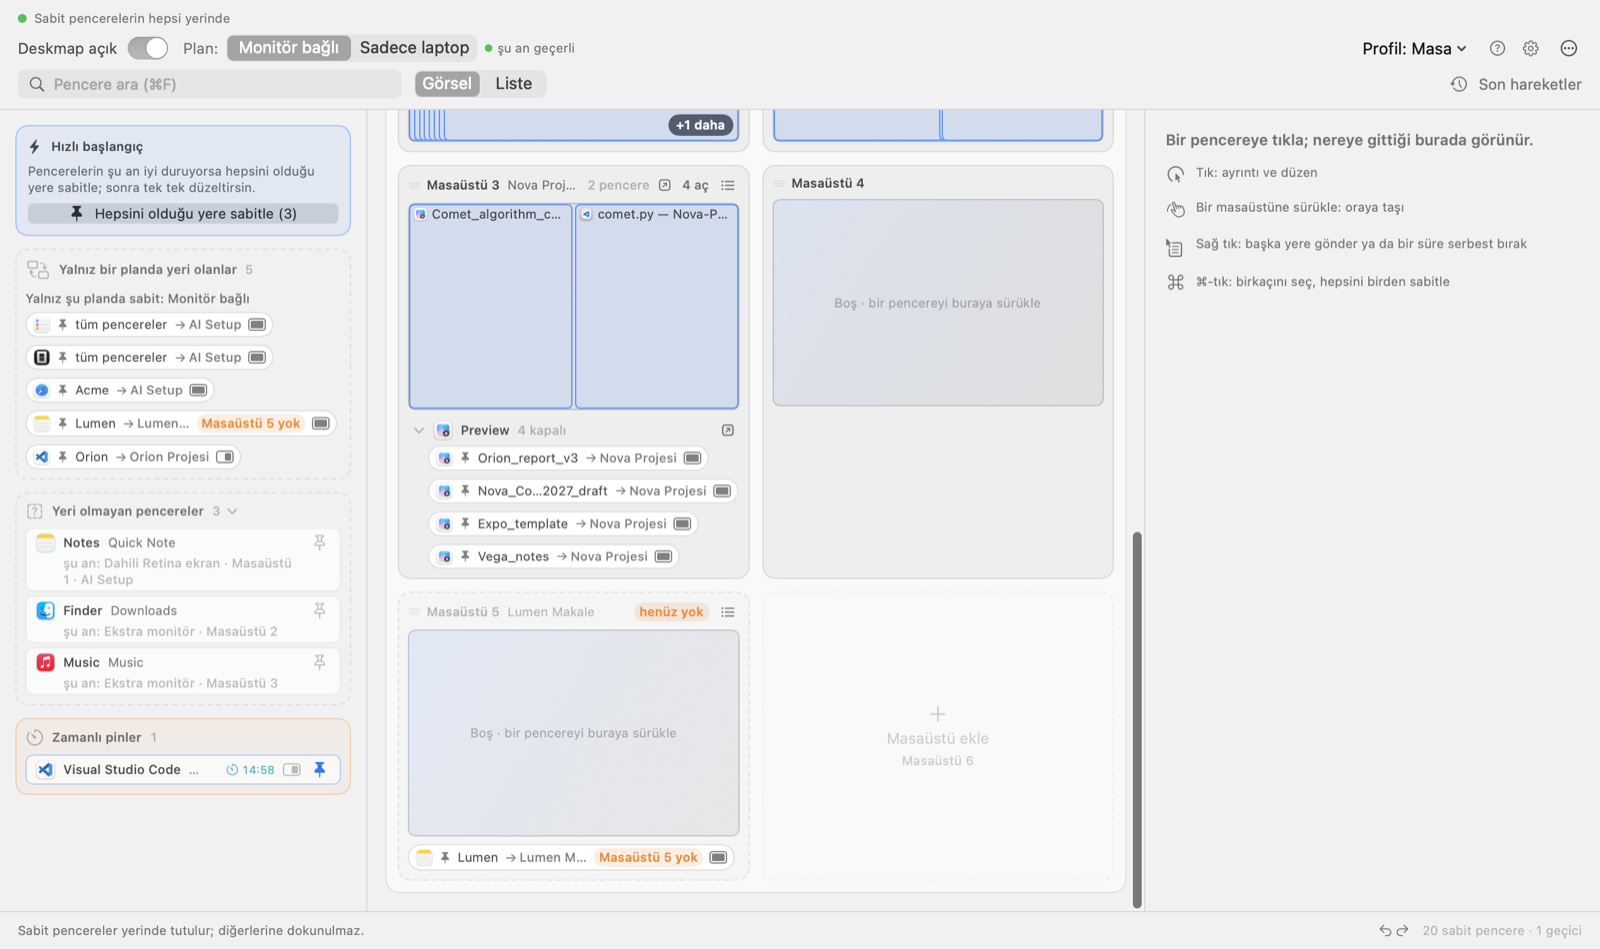
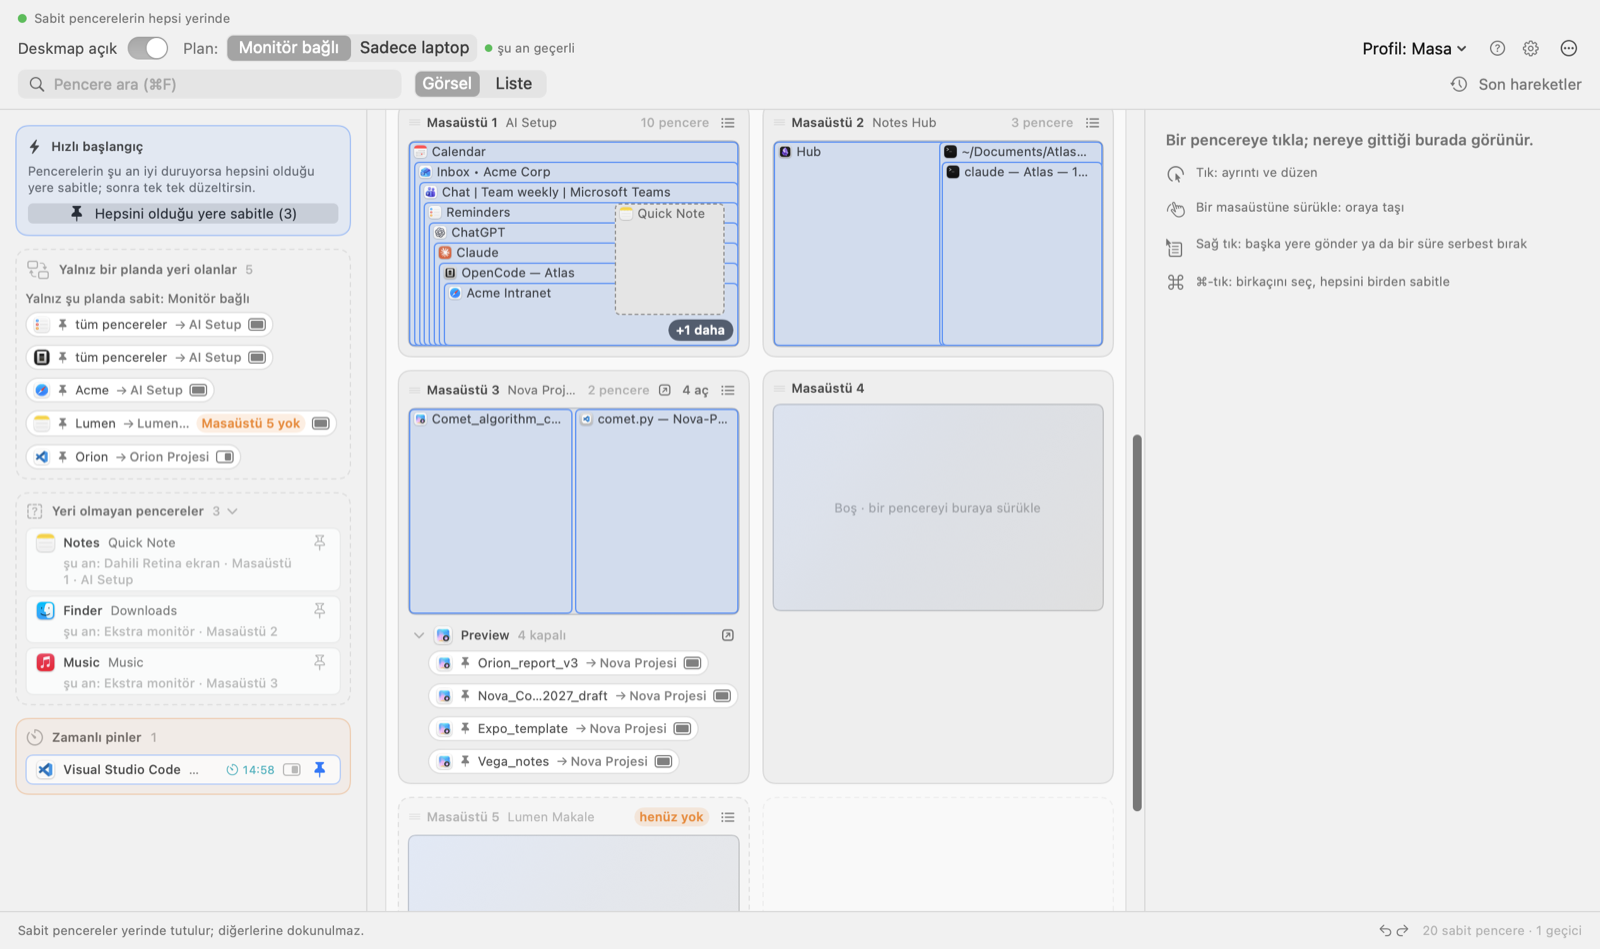
Map: scroll to the revealed window without animation (animated scrollTo is a no-op on macOS 27); drop the shots scroll workaround, bug table C (EN + TR)

diff --git a/app/Tests/DeskmapTests/MapRevealTests.swift b/app/Tests/DeskmapTests/MapRevealTests.swift
@@ -1,0 +1,73 @@
+import AppKit
+import SwiftUI
+import Testing
+@testable import Deskmap
+
+/// `ui.reveal`: harita istenen pencere satırına kayıyor mu (docs/bug-tables.md,
+/// C). Ekran dışında küçük bir pencerede uzun bir liste çizilir; kaydırma
+/// `NSClipView`'un başlangıcından okunur. Gerçek pencereye dokunulmaz.
+@MainActor
+struct MapRevealTests {
+
+    private final class Target: ObservableObject {
+        @Published var window: CGWindowID?
+    }
+
+    private struct List: View {
+        @ObservedObject var target: Target
+        let scroll: (ScrollViewProxy, CGWindowID) -> Void
+
+        var body: some View {
+            ScrollViewReader { proxy in
+                ScrollView {
+                    VStack(spacing: 0) {
+                        ForEach(0..<80, id: \.self) { index in
+                            Text("Window \(index)")
+                                .frame(height: 30)
+                                .id(WindowAnchor(id: CGWindowID(index)))
+                        }
+                    }
+                }
+                .onChange(of: target.window) { window in
+                    if let window { scroll(proxy, window) }
+                }
+            }
+        }
+    }
+
+    /// Satır 60'ı ister, kaydırılan miktarı döndürür.
+    private func scrolledOffset(_ scroll: @escaping (ScrollViewProxy, CGWindowID) -> Void) -> CGFloat {
+        let target = Target()
+        let hosting = NSHostingView(rootView: List(target: target, scroll: scroll))
+        let window = NSWindow(contentRect: NSRect(x: -4000, y: -4000, width: 300, height: 400),
+                              styleMask: [.borderless], backing: .buffered, defer: false)
+        window.isReleasedWhenClosed = false
+        window.contentView = hosting
+        window.orderFrontRegardless()
+        defer { window.orderOut(nil) }
+        RunLoop.main.run(until: Date().addingTimeInterval(0.3))
+        target.window = 60
+        RunLoop.main.run(until: Date().addingTimeInterval(0.8))
+        func clip(in view: NSView) -> NSClipView? {
+            if let clip = view as? NSClipView { return clip }
+            return view.subviews.lazy.compactMap { clip(in: $0) }.first
+        }
+        return clip(in: hosting)?.bounds.origin.y ?? 0
+    }
+
+    @Test func revealScrollsToWindowRow() {
+        #expect(scrolledOffset { MapReveal.scroll($0, to: $1) } > 1000)
+    }
+
+    /// Eski yol: `withAnimation` içinde `scrollTo`. macOS 27.0'da hiç
+    /// kaydırmıyor; başka sürümde kayarsa bilinen sorun görünmez olur.
+    @Test func animatedScrollToDoesNotMove() {
+        withKnownIssue("withAnimation + scrollTo does not scroll (macOS 27.0)", isIntermittent: true) {
+            #expect(scrolledOffset { proxy, window in
+                withAnimation(.easeInOut(duration: 0.2)) {
+                    proxy.scrollTo(WindowAnchor(id: window), anchor: .center)
+                }
+            } > 1000)
+        }
+    }
+}

diff --git a/app/Sources/Deskmap/Demo/Shots.swift b/app/Sources/Deskmap/Demo/Shots.swift
@@ -355,11 +355,7 @@ enum Shots {
         // Alt kısım: uzun başlık, penceresi kapalı Preview sabitlemeleri, boş masaüstü.
         ui.reveal = RevealRequest(window: DemoData.crowdedCometWindowID, seq: 10)
         pump(0.5)
-        scrollMap(ui: ui, toBottom: true)
-        pump(0.3)
         capture("g01c-grid-closed-pins")
-        scrollMap(ui: ui, toBottom: false)
-        pump(0.3)
 
         ui.search = "orion"
         ui.reveal = RevealRequest(window: 130, seq: 2)
@@ -448,24 +444,6 @@ enum Shots {
     /// döngüsü sürmediği için elle pompalanır).
     private static func pump(_ seconds: TimeInterval) {
         RunLoop.main.run(until: Date().addingTimeInterval(seconds))
-    }
-
-    /// Haritayı en alta ya da başa kaydırır; yalnız shots modunda, ürün
-    /// yolunda kullanılmaz. `ui.reveal` (SwiftUI `scrollTo`) kalabalık
-    /// ızgarada kareye yetişmiyor; harici monitör listenin başında, dahili
-    /// ekran sonunda olduğu için alt uç dahili ekranın Masaüstü 3'ünü
-    /// (4 aç düğmesi, kapalı Preview grubu) karede tutar.
-    @MainActor
-    private static func scrollMap(ui: UIState, toBottom: Bool) {
-        guard let scrollView = ui.autoScroll.scrollView,
-              let document = scrollView.documentView else { return }
-        let clip = scrollView.contentView
-        let limit = max(document.frame.height - clip.bounds.height, 0)
-        var origin = clip.bounds.origin
-        // SwiftUI belge görünümü çevrik (y aşağı artar); değilse yön terstir.
-        origin.y = (toBottom == document.isFlipped) ? limit : 0
-        clip.scroll(to: origin)
-        scrollView.reflectScrolledClipView(clip)
     }
 }
 

diff --git a/app/Sources/Deskmap/Views/UIState.swift b/app/Sources/Deskmap/Views/UIState.swift
@@ -48,6 +48,16 @@ struct RevealRequest: Equatable {
     let seq: Int
 }
 
+/// Haritayı bir pencere satırına kaydırır (`ui.reveal`).
+enum MapReveal {
+    /// Animasyonsuz: `withAnimation` içindeki `scrollTo` macOS 27'de haritayı
+    /// hiç kaydırmıyor (docs/bug-tables.md, C).
+    @MainActor
+    static func scroll(_ proxy: ScrollViewProxy, to window: CGWindowID) {
+        proxy.scrollTo(WindowAnchor(id: window), anchor: .center)
+    }
+}
+
 /// Haritanın altında açılan panel. Aynı anda yalnızca biri açık olur;
 /// tek bir değer olduğu için biri açılınca diğeri kendiliğinden kapanır.
 enum BottomPanel: Equatable {

diff --git a/app/Sources/Deskmap/Views/RootView.swift b/app/Sources/Deskmap/Views/RootView.swift
@@ -270,9 +270,7 @@ struct RootView: View {
                 guard let request else { return }
                 // Panel açılınca harita daralır; yerleşim bittikten sonra kaydır.
                 DispatchQueue.main.async {
-                    withAnimation(.easeInOut(duration: 0.2)) {
-                        proxy.scrollTo(WindowAnchor(id: request.window), anchor: .center)
-                    }
+                    MapReveal.scroll(proxy, to: request.window)
                 }
             }
             }

diff --git a/docs/tr/bug-tables.md b/docs/tr/bug-tables.md
@@ -1,6 +1,6 @@
-# Hata tabloları: ana harici monitör, pencere kayması
+# Hata tabloları: ana harici monitör, pencere kayması, haritada gösterme
 
-İki açık hata, her biri işlem × durum tablosu olarak. Her hücrede hatayı
+Üç açık hata, her biri işlem × durum tablosu olarak. Her hücrede hatayı
 yeniden üreten testin adı var (`app/Tests/DeskmapTests/`). `main`'de hatalı
 hücreler `withKnownIssue` ile işaretli; takım yeşil kalır, her bilinen hata
 test çıktısında listelenir. Bu testler gerçek pencere taşımaz: ekranlar,
@@ -153,6 +153,39 @@ birleştirme; AX yok, pencere taşınmaz); `WindowDriftFixTests` ve
 listesi (`ScreenMapView.shadows`) artık Router'ın bağını alıyor
 (`router.context(for:)`): `groupMoveMovesBoundRule`, `shadowsFollowBinding`.
 
+## C. Harita gösterilen pencereye kaymıyor (`ui.reveal`)
+
+Harita açılınca öndeki pencere seçilir ve harita onun satırına kaydırılır
+(`showFrontWindow` → `ui.reveal`). macOS 27.0'da (26A428) harita hiç kaymıyordu.
+
+### Kök neden
+
+`RootView`, `proxy.scrollTo`'yu `withAnimation(.easeInOut)` içinde çağırıyordu.
+Bu macOS'ta animasyonlu `ScrollViewReader.scrollTo` hiçbir şey yapmıyor; aynı
+çağrı animasyonsuz kaydırıyor. Ölçüm: `NSApplication.run` altında bağımsız bir
+SwiftUI uygulaması (düz, `.default`, `.linear`, `.spring`, `.top` çapası ve
+ertelenmiş çağrı: yalnız düz çağrı kaydırıyor), `--shots` kipi ve aşağıdaki
+test. Neden olmayanlar: çapa kimlikleri (`WindowAnchor` liste satırına da ızgara
+kutusuna da bağlı), tembel yığınlar (haritada yok), okuyucu (haritanın kendi
+`ScrollViewReader`'ı), zamanlama (ertelenen çağrı çalışıyor). Eski macOS
+sürümleri (13–26) ölçülmedi. `--shots` kalabalık kareleri de bu çağrıya
+dayanıyordu; `Shots.swift`'teki `scrollMap(ui:toBottom:)` geçici çözümü artık
+yok.
+
+### Tablo
+
+| İşlem \ Durum | Harita listesi, satır var | Görsel ızgara, kutu var | Pencere "+N daha" arkasında |
+| --- | --- | --- | --- |
+| Haritayı öndeki pencerede aç | HATA `animatedScrollToDoesNotMove` → DÜZELTME `revealScrollsToWindowRow` | HATA (aynı çağrı) → DÜZELTME (aynı) | ölçülmedi: çapa yok, harita yerinde kalmalı |
+| Shots kareleri `g01b`, `g01c`, `g02`, `g03`, `d4` | HATA: kareler en üstte kalıyordu → DÜZELTME: kareler pencereye kayıyor | HATA → DÜZELTME | — |
+
+`animatedScrollToDoesNotMove` eski çağrıyı `withKnownIssue` altında tutar
+(aralıklı: başka bir macOS sürümü kaydırabilir). Düzeltme
+(`gece/1910-deskmap-i18n`) animasyonsuz kaydırır (`MapReveal.scroll`): harita
+satıra kayarak değil, atlayarak gider. Izgara kutusu kimliğini `.offset`'ten
+sonra taşıdığı için kaydırma hedefi kutunun kendisi değil masaüstü kartının sol
+üstü; kart yine görünür alanda kalıyor, dokunulmadı.
+
 ## Kararlar (geliştirici için)
 
 A. Ana harici monitör
@@ -181,3 +214,7 @@ B. Pencere kayması
    bir yeni oturum penceresiyle bir kez ölçülmeli.
 4. Tam başlık sahibi: tek parçalı bir kuralın parçasına bütün başlığı eşit
    olan pencere açıkken, yalnız o parçayı içeren öbür pencereler kurala uymaz.
+
+C. Haritada gösterme
+1. Animasyonsuz atlama (bu daldaki düzeltme) mı, yoksa macOS 27'de çalışan
+   animasyonlu bir kaydırma mı aranmalı (ör. `NSClipView`'u canlandırmak)?

diff --git a/docs/bug-tables.md b/docs/bug-tables.md
@@ -1,6 +1,6 @@
-# Bug tables: primary external monitor, window drift
+# Bug tables: primary external monitor, window drift, map reveal
 
-Two open bugs, each written as an operation × state table. Every cell names
+Three open bugs, each written as an operation × state table. Every cell names
 the test that reproduces it (`app/Tests/DeskmapTests/`). On `main` the bug
 cells are marked `withKnownIssue`; the suite stays green and each known issue
 is listed in the test output. Nothing in these tests moves a real window:
@@ -156,6 +156,39 @@ too. Renamed: `unpinFallsBackToAppWideRule` → `unpinLeavesWindowInPlace`,
 the map's shadow list (`ScreenMapView.shadows`) now take the Router's binding
 (`router.context(for:)`): `groupMoveMovesBoundRule`, `shadowsFollowBinding`.
 
+## C. Map does not scroll to a revealed window (`ui.reveal`)
+
+Opening the map selects the front window and scrolls the map to its row
+(`showFrontWindow` → `ui.reveal`). On macOS 27.0 (26A428) the map never moved.
+
+### Root cause
+
+`RootView` called `proxy.scrollTo` inside `withAnimation(.easeInOut)`. On this
+macOS an animated `ScrollViewReader.scrollTo` is a no-op: the same call without
+animation scrolls. Measured in a standalone SwiftUI app under
+`NSApplication.run` (plain, `.default`, `.linear`, `.spring`, `.top` anchor and
+a deferred call: only the plain call moves), in the `--shots` mode and in the
+test below. Not the cause: the anchor ids (`WindowAnchor` matches both list
+rows and grid boxes), lazy stacks (none on the map), the reader (the map's own
+`ScrollViewReader`), timing (the deferred call runs). Older macOS versions
+(13 to 26) were not measured. The `--shots` crowded frames depended on this
+call too; `scrollMap(ui:toBottom:)` in `Shots.swift` worked around it and is
+gone now.
+
+### Table
+
+| Operation \ State | Map list, row present | Visual grid, box present | Window hidden behind "+N more" |
+| --- | --- | --- | --- |
+| Open the map on the front window | BUG `animatedScrollToDoesNotMove` → FIX `revealScrollsToWindowRow` | BUG (same call) → FIX (same) | not measured: no anchor, the map should stay |
+| Shots frames `g01b`, `g01c`, `g02`, `g03`, `d4` | BUG: frames stayed at the top → FIX: frames scroll to the window | BUG → FIX | — |
+
+`animatedScrollToDoesNotMove` keeps the old call under `withKnownIssue`
+(intermittent: another macOS version may scroll). The fix
+(`gece/1910-deskmap-i18n`) scrolls without animation (`MapReveal.scroll`): the
+map jumps to the row instead of sliding. A grid box carries its id after
+`.offset`, so the scroll target is the desktop card's top left, not the box
+itself; the card is still in view, left as is.
+
 ## Decisions (for the maintainer)
 
 A. Primary external monitor
@@ -185,3 +218,7 @@ B. Window drift
    needs one measurement with a real new session window.
 4. Exact owner: while a window whose whole title equals a one-token rule is
    open, other windows that only contain that token do not match the rule.
+
+C. Map reveal
+1. Jump without animation (fix on this branch) or keep looking for an animated
+   scroll that works on macOS 27 (for example animating the `NSClipView`)?
